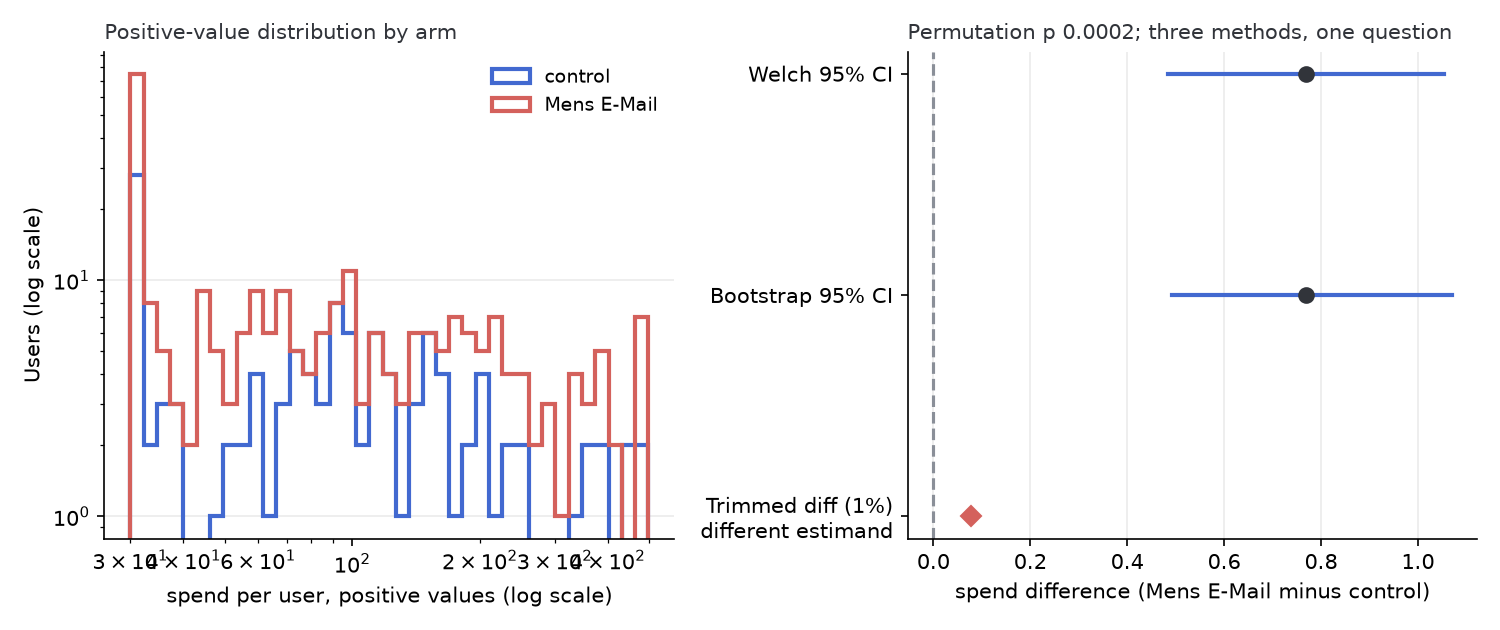
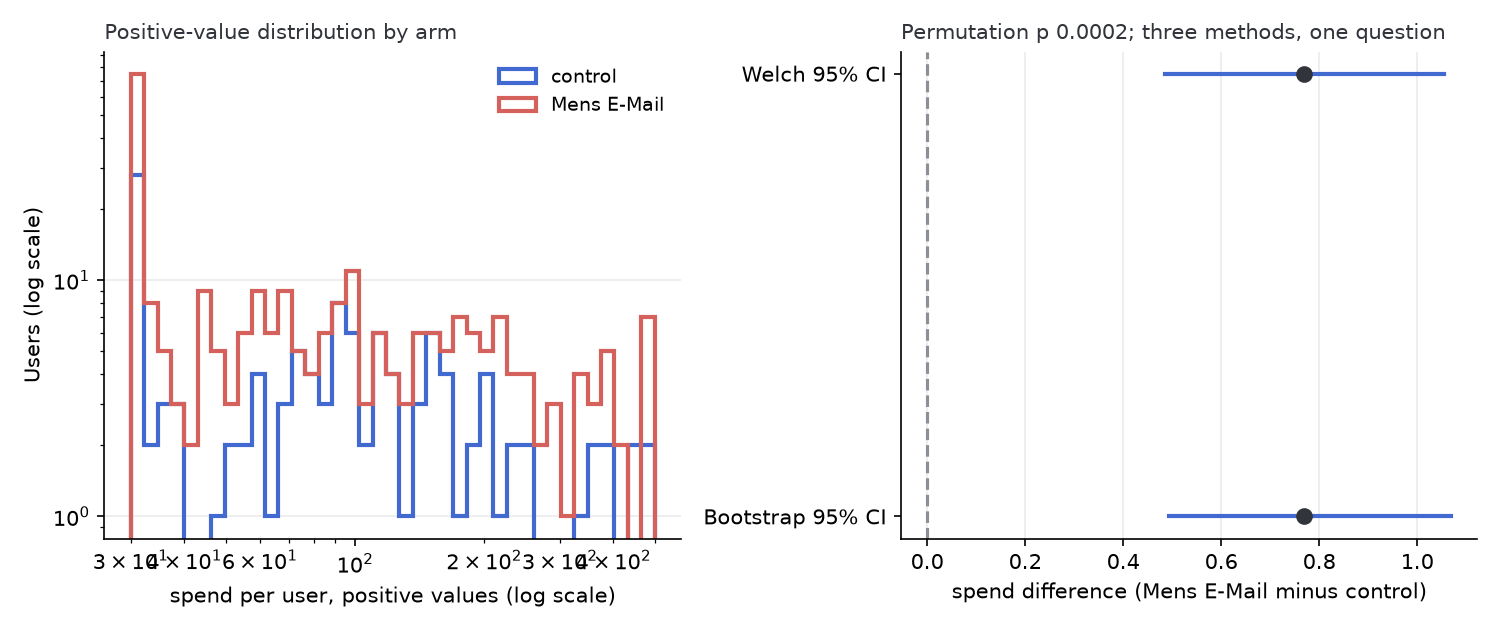
Arm shares in the Data block, Holm on early versus late, the trimmed-mean row dropped
The Data block prints each group's share of the users, so
ASOS's variant_0 shows at 1.0% beside three arms at 33.0% with no plan on
record. The early-versus-late p-values are Holm-corrected across the
treatments, and the change is judged on the corrected p, as the primary
metric's contrasts are. The cross-check's 1% trimmed-mean row is gone from
the readout and the figure: it estimated a different quantity, and on a
metric most users have none of the trim removed the spenders themselves.
The time-based blocks on per-group totals stay with their sharpened flag,
and the replay stays on the first treatment.

README: the key says what a constant share does and does not show, spells
out CUPED and BCa at first prose use, names CUPED's regression adjustment,
and states the Holm correction on early versus late. Notes record the
trimmed row's removal.

Goldens and all three readouts regenerated.

diff --git a/src/abkit/readout_analysis.py b/src/abkit/readout_analysis.py
@@ -39,7 +39,7 @@ from abkit.frequentist import (
 )
 from abkit.io import ArmAggregate, Experiment, MetricSpec, ValidationEvent, capabilities
 from abkit.power import mde_two_proportions, power_two_proportions
-from abkit.resampling import bootstrap_mean_diff, permutation_test_mean_diff, trimmed_mean_diff
+from abkit.resampling import bootstrap_mean_diff, permutation_test_mean_diff
 from abkit.results import (
     BootstrapResult,
     CupedResult,
@@ -95,16 +95,14 @@ class CorrectedComparison:
 
 @dataclass(frozen=True)
 class HeavyTailCheck:
-    """The revenue cross-check on the first contrast: four methods on one skewed metric."""
+    """The revenue cross-check on the first contrast: three methods on one skewed metric."""
 
     metric: str
     treatment_arm: str
     welch: MeanComparison
     bootstrap: BootstrapResult
     permutation: PermutationResult
-    trimmed_difference: float
     zero_share: float
-    trim_degenerate: bool
 
 
 @dataclass(frozen=True)
@@ -116,6 +114,8 @@ class NoveltyContrast:
     late: float
     decay_z: float
     decay_p: float
+    decay_p_holm: float
+    """Holm-corrected across the contrasts; equals decay_p with one treatment."""
     early_users: tuple[int, int]
     late_users: tuple[int, int]
     """Users in each window, treatment then control, so a thin window is visible on the line."""
@@ -693,24 +693,9 @@ def _heavy_tail(
         random_generator=random_generator,
         n_permutations=N_RESAMPLES,
     )
-    trimmed = trimmed_mean_diff(control_values, treatment_values, trim=0.01)
     zero_share = float(np.mean(pooled == 0.0))
-    # a 1% trim on a mostly-zero metric removes the nonzero values themselves,
-    # so the trimmed row stops being a tail check; the text says so when it happens
-    trim_degenerate = 2 * int(0.01 * control_values.size) >= int(
-        (control_values > 0).sum()
-    ) or 2 * int(0.01 * treatment_values.size) >= int((treatment_values > 0).sum())
     return (
-        HeavyTailCheck(
-            metric.name,
-            treatment_arm,
-            welch,
-            bootstrap,
-            permutation,
-            trimmed,
-            zero_share,
-            trim_degenerate,
-        ),
+        HeavyTailCheck(metric.name, treatment_arm, welch, bootstrap, permutation, zero_share),
         limitation,
     )
 
@@ -739,7 +724,7 @@ def _novelty(
         return None
     window_size = max(1, n_usable // 3)
     control_series = _series(experiment, experiment.arms[0], metric.name)
-    contrasts: list[NoveltyContrast] = []
+    partial: list[tuple[str, float, float, float, float, tuple[int, int], tuple[int, int]]] = []
     for _, treatment_arm in _contrasts(experiment):
         treatment_series = _series(experiment, treatment_arm, metric.name)
         try:
@@ -762,8 +747,8 @@ def _novelty(
             return None
         decay_z = float((early - late) / np.hypot(early_standard_error, late_standard_error))
         decay_p = float(2.0 * stats.norm.sf(abs(decay_z)))
-        contrasts.append(
-            NoveltyContrast(
+        partial.append(
+            (
                 treatment_arm,
                 float(early),
                 float(late),
@@ -773,7 +758,16 @@ def _novelty(
                 (late_treatment[0], late_control[0]),
             )
         )
-    return NoveltyCheck(metric.name, window_size, n_usable, n_checkpoints, tuple(contrasts))
+    # one change-over-time test per treatment, so the family is corrected the way
+    # the primary metric's contrasts are
+    corrected = holm([row[4] for row in partial])
+    contrasts = tuple(
+        NoveltyContrast(arm, early, late, z_value, p_value, float(p_holm), early_users, late_users)
+        for (arm, early, late, z_value, p_value, early_users, late_users), p_holm in zip(
+            partial, corrected, strict=True
+        )
+    )
+    return NoveltyCheck(metric.name, window_size, n_usable, n_checkpoints, contrasts)
 
 
 def _monitoring(

diff --git a/src/abkit/readout_text.py b/src/abkit/readout_text.py
@@ -161,11 +161,17 @@ def _cuped_line(treatment_arm: str, control_arm: str, result: CupedResult, binar
 def _data_block(readout: ExperimentReadout) -> list[str]:
     """Block 1: source, data shape, arm sizes, and what the intake did."""
     shape = "user rows" if readout.data_shape == "user_rows" else "per-group totals"
+    total_users = sum(size for _, size in readout.arm_sizes)
     lines = [
         f"{readout.experiment_name}: {shape}",
         "Data: what the intake did before any statistic",
-        _INDENT + "users   " + "   ".join(f"{arm} {size:,}" for arm, size in readout.arm_sizes),
     ]
+    lines += _wrapped(
+        "users   "
+        + "   ".join(
+            f"{arm} {size:,} ({size / total_users:.1%})" for arm, size in readout.arm_sizes
+        )
+    )
     if readout.validation:
         for event in readout.validation:
             lines += _wrapped(f"{event.rule}   {event.count:,} rows   {event.detail}")
@@ -321,7 +327,7 @@ def _corrections_block(readout: ExperimentReadout) -> list[str]:
 
 
 def _heavy_tail_block(readout: ExperimentReadout) -> list[str]:
-    """Block 7: the revenue cross-check, four rows and a result."""
+    """Block 7: the revenue cross-check, three rows and a result."""
     check = readout.heavy_tail
     if check is None:
         return []
@@ -333,7 +339,7 @@ def _heavy_tail_block(readout: ExperimentReadout) -> list[str]:
         welch_significant == (permutation.p_value < readout.alpha)
         and boot_excludes_zero == welch_significant
     )
-    lines = [
+    return [
         "",
         f"Cross-check on {check.metric}: three methods, same question "
         f"({check.treatment_arm} vs {control_arm})",
@@ -343,16 +349,8 @@ def _heavy_tail_block(readout: ExperimentReadout) -> list[str]:
         _INDENT + f"bootstrap     {bootstrap.estimate:+.3f}   {bootstrap.ci_low:+.3f} to "
         f"{bootstrap.ci_high:+.3f}   BCa, {bootstrap.n_resamples:,} resamples",
         _INDENT + f"permutation   {permutation.observed:+.3f}   {fmt_perm_p(permutation)}",
-        _INDENT
-        + f"trimmed 1%    {check.trimmed_difference:+.3f}   a different quantity, not comparable",
         _INDENT + "result   " + _TAIL_RESULTS["agree" if agree else "disagree"],
     ]
-    if check.trim_degenerate:
-        lines.append(
-            _INDENT + f"trimmed row is not a tail check here: {pct(check.zero_share, 0)} of users "
-            "sit at zero"
-        )
-    return lines
 
 
 def _novelty_block(readout: ExperimentReadout) -> list[str]:
@@ -373,16 +371,24 @@ def _novelty_block(readout: ExperimentReadout) -> list[str]:
         )
         + f", of {check.n_usable} usable",
     ]
+    several = len(check.contrasts) >= 2
+    if several:
+        lines.append(
+            _INDENT + f"Holm-corrected across the {len(check.contrasts)} treatments; the change "
+            "is judged on the Holm p"
+        )
     for contrast in check.contrasts:
         early = pp_signed(contrast.early) if binary else f"{contrast.early:+.3f}"
         late = pp_signed(contrast.late) if binary else f"{contrast.late:+.3f}"
-        if contrast.decay_p >= readout.alpha:
+        if contrast.decay_p_holm >= readout.alpha:
             outcome = "steady"
         else:
             outcome = "fell" if contrast.decay_z > 0 else "rose"
+        holm_part = f"Holm {fmt_p(contrast.decay_p_holm)}   " if several else ""
         lines += _wrapped(
             f"{contrast.treatment_arm} vs {control_arm}   early {early}   late {late}   "
-            f"z {contrast.decay_z:.2f}   p {fmt_p(contrast.decay_p)}   " + _NOVELTY_RESULTS[outcome]
+            f"z {contrast.decay_z:.2f}   p {fmt_p(contrast.decay_p)}   {holm_part}"
+            + _NOVELTY_RESULTS[outcome]
         )
         # Each window's users, treatment then control, on a line of its own under the
         # contrast, so a thin window is visible where the two effects disagree.

diff --git a/tests/test_readout_analysis.py b/tests/test_readout_analysis.py
@@ -10,6 +10,7 @@ from pathlib import Path
 import numpy as np
 import pytest
 
+from abkit.frequentist import holm
 from abkit.io import Experiment, load_aggregates, load_config, load_user_rows
 from abkit.readout_analysis import (
     HEAVY_TAIL_TOP_SHARE,
@@ -477,3 +478,13 @@ def test_sensitivity_with_several_treatments_is_solved_at_alpha_over_their_numbe
     experiment = load_user_rows(load_config(config_path), FIXTURES / "hillstrom_shaped.csv")
     readout = _readout(experiment)
     assert [values["alpha"] for _, values in readout.sensitivity] == [0.025, 0.025]
+
+
+def test_early_versus_late_p_values_are_holm_corrected_across_treatments():
+    config = load_config(FIXTURES / "aggregates_config.toml")
+    readout = _readout(load_aggregates(config, FIXTURES / "aggregates_ok.csv"))
+    assert readout.novelty is not None
+    raw = [contrast.decay_p for contrast in readout.novelty.contrasts]
+    corrected = [contrast.decay_p_holm for contrast in readout.novelty.contrasts]
+    assert corrected == pytest.approx(holm(raw))
+    assert all(after >= before for before, after in zip(raw, corrected, strict=True))

diff --git a/src/abkit/readout_figures.py b/src/abkit/readout_figures.py
@@ -264,10 +264,7 @@ def _revenue_figure(
     for position, (_, center, ci_low, ci_high) in enumerate(intervals):
         interval_ax.plot([ci_low, ci_high], [position, position], color=COLOR_CONTROL, linewidth=2)
         interval_ax.plot(center, position, "o", color=COLOR_INK, markersize=7)
-    interval_ax.plot(
-        check.trimmed_difference, len(intervals), "D", color=COLOR_TREATMENT, markersize=7
-    )
-    labels = [label for label, *_ in intervals] + ["Trimmed diff (1%)\ndifferent estimand"]
+    labels = [label for label, *_ in intervals]
     interval_ax.set_yticks(np.arange(len(labels)), labels)
     interval_ax.set_xlabel(f"{check.metric} difference ({check.treatment_arm} minus control)")
     interval_ax.set_title(

diff --git a/README.md b/README.md
@@ -32,13 +32,16 @@ look, so the run would not have stopped early under either rule.*
 The readout is a text file of labeled blocks, with no generated prose. Each
 heading carries a few words on how to read its block, and the file closes
 with one decision line per treatment and the figures' paths. The committed
-readout of a real ASOS.com experiment follows, whole. The file is
-[analysis/asos/readout.txt](analysis/asos/readout.txt).
+readout of a real ASOS.com experiment follows whole, with a key to its
+blocks after it.
+
+The file is [analysis/asos/readout.txt](analysis/asos/readout.txt).
 
 ```text
 ASOS experiment 54a85a: per-group totals
 Data: what the intake did before any statistic
-  users   control 3,320,536   variant_0 102,316   variant_1 3,316,730   variant_2 3,320,435
+  users   control 3,320,536 (33.0%)   variant_0 102,316 (1.0%)   variant_1 3,316,730 (33.0%)
+      variant_2 3,320,435 (33.0%)
   repairs and drops   none; the file passed every rule as delivered
 
 Limitations (*): read every result below with these in view
@@ -91,13 +94,15 @@ Other metrics: corrected for 9 comparisons (Holm, and BH = Benjamini-Hochberg)
 
 Early versus late: did the effect fade?
   first 31 checkpoints against the last 31, of 95 usable
-  variant_0 vs control   early -0.01 pp   late -1.26 pp   z 2.88   p 0.004   effect fell over the
-      run
+  Holm-corrected across the 3 treatments; the change is judged on the Holm p
+  variant_0 vs control   early -0.01 pp   late -1.26 pp   z 2.88   p 0.004   Holm 0.008   effect
+      fell over the run
     users   early 69,687 vs 2,275,261   late 14,188 vs 450,624
-  variant_1 vs control   early +0.09 pp   late +0.08 pp   z 0.09   p 0.924   no change detected
+  variant_1 vs control   early +0.09 pp   late +0.08 pp   z 0.09   p 0.924   Holm 0.924   no change
+      detected
     users   early 2,275,224 vs 2,275,261   late 449,029 vs 450,624
-  variant_2 vs control   early -0.17 pp   late +0.23 pp   z -3.70   p 0.0002   effect rose over the
-      run
+  variant_2 vs control   early -0.17 pp   late +0.23 pp   z -3.70   p 0.0002   Holm 0.0006   effect
+      rose over the run
     users   early 2,274,963 vs 2,275,261   late 449,234 vs 450,624
 
 Monitoring replay: 95 looks; 5% budget spread across them; a crossing = a stop allowed at that look
@@ -120,14 +125,19 @@ Figures:
 
 How to read it, block by block:
 
-- **Data.** What the intake repaired or dropped, with counts.
+- **Data.** Each group's user count and its share of the total, then what
+  the intake repaired or dropped, with counts.
 - **Limitations.** What the checks flagged. A flag does not stop the run;
   every result below is read with these in view.
 - **Group split.** Whether users landed in the groups as planned. A broken
   split means users went missing or were assigned unevenly, and no statistic
   repairs that, so the decision lines are replaced by one stop line. When
   the plan is not on record, as here, the check tests whether the share of
-  new users per checkpoint stayed constant.
+  new users per checkpoint stayed constant. A constant share means
+  assignment ran the same way from the first checkpoint to the last. It
+  cannot say whether the group sizes match a plan that is not on record. The
+  Data block prints each group's share for that, and here variant_0 holds
+  1.0% of the users.
 - **Sensitivity.** The smallest lift this sample could have detected with
   80% power. A "not detected" result means an effect at least that large
   would have been seen with 80% probability and says nothing about smaller
@@ -135,21 +145,21 @@ How to read it, block by block:
   number, so it holds under the Holm correction below.
 - **Primary metric.** The effect, its 95% interval, and p for each
   treatment. Read the interval before the p.
-- **CUPED** (user rows with a pre-experiment column only). That metric's
-  effect after removing the part of each user's outcome their pre-experiment
-  value already predicted. It runs on each metric with a pre-experiment
-  column, which in both committed user-row readouts is spend, not the
-  primary. "Noise removed" is the share by which the adjustment shrank the
-  estimate's variance, so more removed means a narrower interval.
+- **CUPED** (controlled-experiment using pre-experiment data). It runs on
+  user rows only, on each metric with a pre-experiment column, which in both
+  committed user-row readouts is spend, not the primary. It reports that
+  metric's effect after a regression adjustment removes the part of each
+  user's outcome their pre-experiment value already predicted. "Noise
+  removed" is the share by which the adjustment shrank the estimate's
+  variance, so more removed means a narrower interval.
 - **Other metrics.** The secondary metrics, corrected two ways. Holm caps
   the chance of any false positive among them, which a ship decision needs.
   Benjamini-Hochberg caps the share of false positives, which is enough for
   a screen of what to test next.
 - **Cross-check** (user rows with a continuous metric only). Welch's t-test,
-  scipy's BCa bootstrap, which corrects the interval for skew, and a
-  permutation test on the same contrast. Agreement means the result does not
-  depend on the method. The trimmed mean on the last line is a different
-  quantity, printed to show what the largest values are doing.
+  scipy's BCa (bias-corrected and accelerated) bootstrap, which corrects the
+  interval for skew, and a permutation test on the same contrast. Agreement
+  means the result does not depend on the method.
 - **Early versus late.** Whether the lift seen early in the run held to the
   end. A novelty effect, a lift that fades as the feature stops being new,
   does not hold. The treatment's lift over the first third of the usable
@@ -161,7 +171,8 @@ How to read it, block by block:
   enrolled users at each checkpoint, which the limitations block flags. A
   late window there mixes two things, earlier users' outcomes still changing
   and the treatment's effect changing, and the readout reports the change
-  without saying which.
+  without saying which. With several treatments the p-values are
+  Holm-corrected, as on the primary metric.
 - **Monitoring replay.** The finished run checked look by look against the
   spending boundary. A crossing means a stop at that look would have kept
   the false-positive rate, and nothing more. Whether the effect lasted is

diff --git a/docs/NOTES.md b/docs/NOTES.md
@@ -64,8 +64,11 @@ quarter of its total fires on any metric most users have none of, because
 the few who have any carry all of it. On Hillstrom, fewer than 1% of users
 spent anything, so the top 1% carry 100% of spend. The flag's wording names
 that case ("because fewer than 1% have any spend at all") rather than
-calling the metric heavy-tailed, and the trimmed-mean row of the cross-check
-says it is not a tail check there.
+calling the metric heavy-tailed. Until 2026-10-21 the cross-check also
+printed a 1% trimmed-mean difference. It estimated a different quantity from
+the other three rows, and on a metric most users have none of, the trim
+removes the users who spent, so the row was dropped. The trimmed-mean
+function stays in the resampling module with its tests.
 
 ## The first-treatment rule (2026-10-09)
 
